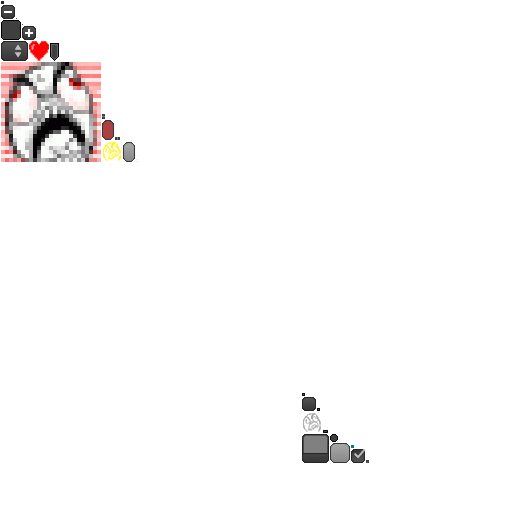
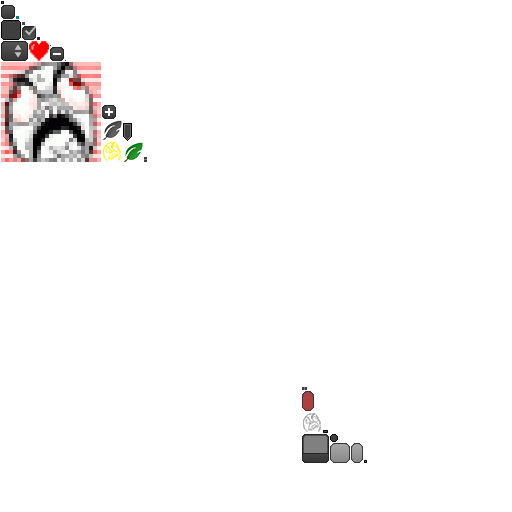
zenove listecky; kaluz krve

diff --git a/zen/src/cz/emo4d/zen/gameplay/EffectManager.java b/zen/src/cz/emo4d/zen/gameplay/EffectManager.java
@@ -6,47 +6,46 @@ import com.badlogic.gdx.graphics.g2d.SpriteBatch;
 import com.badlogic.gdx.utils.Array;
 
 public class EffectManager {
-	
+
 	public enum AvailableEffects {
-		BULLET_EXPLOSION,
-		DIE_EXPLOSION		
+		BULLET_EXPLOSION, DIE_EXPLOSION
 	}
-	
-	private Array<Effect> activeEffects = new Array<Effect>();	
+
+	private Array<Effect> activeEffects = new Array<Effect>();
 	private Texture explosionTexture, dieTexture;
-	
-	public EffectManager() {			
+
+	public EffectManager() {
 		explosionTexture = new Texture(Gdx.files.internal("data/effects/fx_bombsplosion_big_32.png"));
-		dieTexture = new Texture(Gdx.files.internal("data/effects/fx_enemydie_64r.png"));
-	}	
-	
-	public void addEffect(AvailableEffects effect, float posX, float posY) {
-		
-		switch (effect) {
-		case BULLET_EXPLOSION:
-			activeEffects.add(new Effect(explosionTexture, 8, 1, 0.05f, 0, posX, posY));
-			break;
-		case DIE_EXPLOSION:
-			activeEffects.add(new Effect(dieTexture, 15, 1, 0.05f, 0, posX - (1/32f * 15), posY));
-			break;		
-		}	
+		dieTexture = new Texture(Gdx.files.internal("data/effects/blood_death.png"));
 	}
-	
+
+	public void addEffect(AvailableEffects effect, float posX, float posY) {
+
+		switch (effect) {
+			case BULLET_EXPLOSION:
+				activeEffects.add(new Effect(explosionTexture, 8, 1, 0.05f, 0, posX, posY));
+				break;
+			case DIE_EXPLOSION:
+				activeEffects.add(new Effect(dieTexture, 8, 1, 0.075f, 0, posX - (1 / 32f * 15), posY - (1 / 32f * 12)));
+				break;
+		}
+	}
+
 	public void update(float deltaTime) {
 		for (int i = 0; i < activeEffects.size; i++) {
 			activeEffects.get(i).update(0, false);
 			if (activeEffects.get(i).isAnimationFinished(0)) {
 				activeEffects.removeIndex(i);
 			}
-		}		
+		}
 		/*for (Effect e : activeEffects) {	
 			e.update(0, false);
-		}*/		
+		}*/
 	}
-	
+
 	public void render(SpriteBatch spriteBatch) {
 		for (Effect e : activeEffects) {
-			e.render(spriteBatch, e.posX, e.posY, 1/32f * e.width, 1/32f * e.height);
-		}			
-	}	
+			e.render(spriteBatch, e.posX, e.posY, 1 / 32f * e.width, 1 / 32f * e.height);
+		}
+	}
 }

diff --git a/zen/src/cz/emo4d/zen/ui/GameGuiStage.java b/zen/src/cz/emo4d/zen/ui/GameGuiStage.java
@@ -85,14 +85,16 @@ public class GameGuiStage extends BaseStage {
 		p.updateHearts();
 
 		stats.row().spaceTop(5);
-		stats.add(new Label("RAGE", skin)).left().spaceRight(20);
-		Drawable rageOn = skin.getDrawable("rage-on");
-		Drawable rageOff = skin.getDrawable("rage");
-		stats.add(new Image(rageOn)).spaceRight(5);
-		stats.add(new Image(rageOn)).spaceRight(5);
-		stats.add(new Image(rageOff)).spaceRight(5);
-		stats.add(new Image(rageOff)).spaceRight(5);
-		stats.add(new Image(rageOff)).spaceRight(5);
+
+		stats.add(new Label("ZEN", skin)).left().spaceRight(20);
+		Drawable leaf = skin.getDrawable("leaf");
+		for (int i = 0; i < 5; i++) {
+			Image im = new Image(leaf);
+			stats.add(im).spaceRight(5);
+			p.leaves.add(im);
+		}
+
+		p.updateLeaves();
 
 		return tbl;
 	}
@@ -119,13 +121,14 @@ public class GameGuiStage extends BaseStage {
 		player.updateHearts();
 
 		stats.row().spaceTop(5);
-		Drawable rageOn = skin.getDrawable("rage-on");
-		Drawable rageOff = skin.getDrawable("rage");
-		stats.add(new Image(rageOn)).width(10).height(10).spaceRight(5);
-		stats.add(new Image(rageOn)).width(10).height(10).spaceRight(5);
-		stats.add(new Image(rageOff)).width(10).height(10).spaceRight(5);
-		stats.add(new Image(rageOff)).width(10).height(10).spaceRight(5);
-		stats.add(new Image(rageOff)).width(10).height(10).spaceRight(5);
+		Drawable leaf = skin.getDrawable("leaf");
+		for (int i = 0; i < 5; i++) {
+			Image im = new Image(leaf);
+			stats.add(im).width(10).height(10).spaceRight(5);
+			player.leaves.add(im);
+		}
+
+		player.updateLeaves();
 
 		return tbl;
 	}

diff --git a/zen/src/cz/emo4d/zen/gameplay/Player.java b/zen/src/cz/emo4d/zen/gameplay/Player.java
@@ -1,9 +1,14 @@
 package cz.emo4d.zen.gameplay;
 
+import java.util.Random;
+
 import com.badlogic.gdx.Gdx;
+import com.badlogic.gdx.graphics.Color;
 import com.badlogic.gdx.graphics.Texture;
 import com.badlogic.gdx.math.Rectangle;
 import com.badlogic.gdx.math.Vector2;
+import com.badlogic.gdx.scenes.scene2d.ui.Image;
+import com.badlogic.gdx.utils.Array;
 
 import cz.emo4d.zen.screens.Map;
 
@@ -19,6 +24,13 @@ public class Player extends Mob {
 	private Rectangle tmpRect = new Rectangle();
 	private Rectangle tmpPlayerRect = new Rectangle();
 
+	public static int MAX_ZEN = 100;
+	private int zen = MAX_ZEN;
+
+	// gui sem nastavuje obrazky s listkama, ktere si pak hrac updatuje
+	public final Array<Image> leaves = new Array<Image>();
+
+
 
 	public Player(Vector2 pos, float width, float height) {
 		super();
@@ -29,6 +41,38 @@ public class Player extends Mob {
 		HEIGHT = 1 / 32f * (effect.height - 15);
 
 		effect.update(0, true); // 0 = Direction.S 
+
+		Random r = new Random();
+		zen = Math.round(r.nextFloat() * 100);
+	}
+
+
+
+	public void addZen(int diff) {
+		zen += diff;
+
+		if (leaves.size > 0) {
+			updateLeaves();
+		}
+	}
+
+	public void updateLeaves() {
+		float zenPerHeart = Player.MAX_ZEN / (float) leaves.size;
+
+		for (int i = 1; i <= 5; i++) {
+			Image im = leaves.get(i - 1);
+			Color c = im.getColor();
+
+			if (zen < i * zenPerHeart) {
+				float part = (zen - ((i - 1) * zenPerHeart)) / (float) zenPerHeart;
+
+				if (part < 0) {
+					part = 0;
+				}
+
+				im.setColor(c.r, c.g, c.b, part);
+			}
+		}
 	}
 
 

diff --git a/zen/src/cz/emo4d/zen/gameplay/Mob.java b/zen/src/cz/emo4d/zen/gameplay/Mob.java
@@ -2,7 +2,6 @@ package cz.emo4d.zen.gameplay;
 
 import java.util.Random;
 
-import com.badlogic.gdx.Gdx;
 import com.badlogic.gdx.graphics.Color;
 import com.badlogic.gdx.graphics.g2d.SpriteBatch;
 import com.badlogic.gdx.math.Rectangle;
@@ -36,7 +35,6 @@ public class Mob extends Entity {
 
 		Random r = new Random();
 		health = Math.round(r.nextFloat() * 100);
-		Gdx.app.log("x", "" + health);
 	}
 
 
